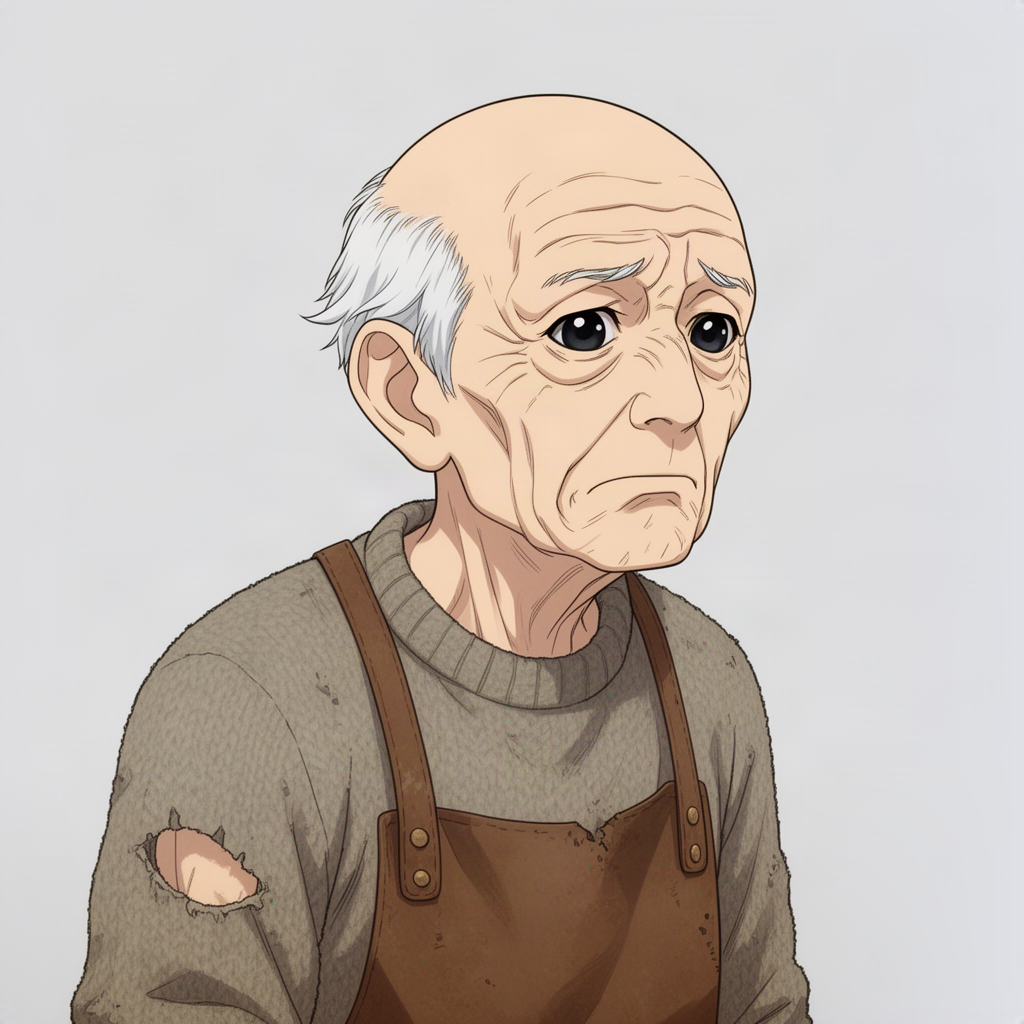
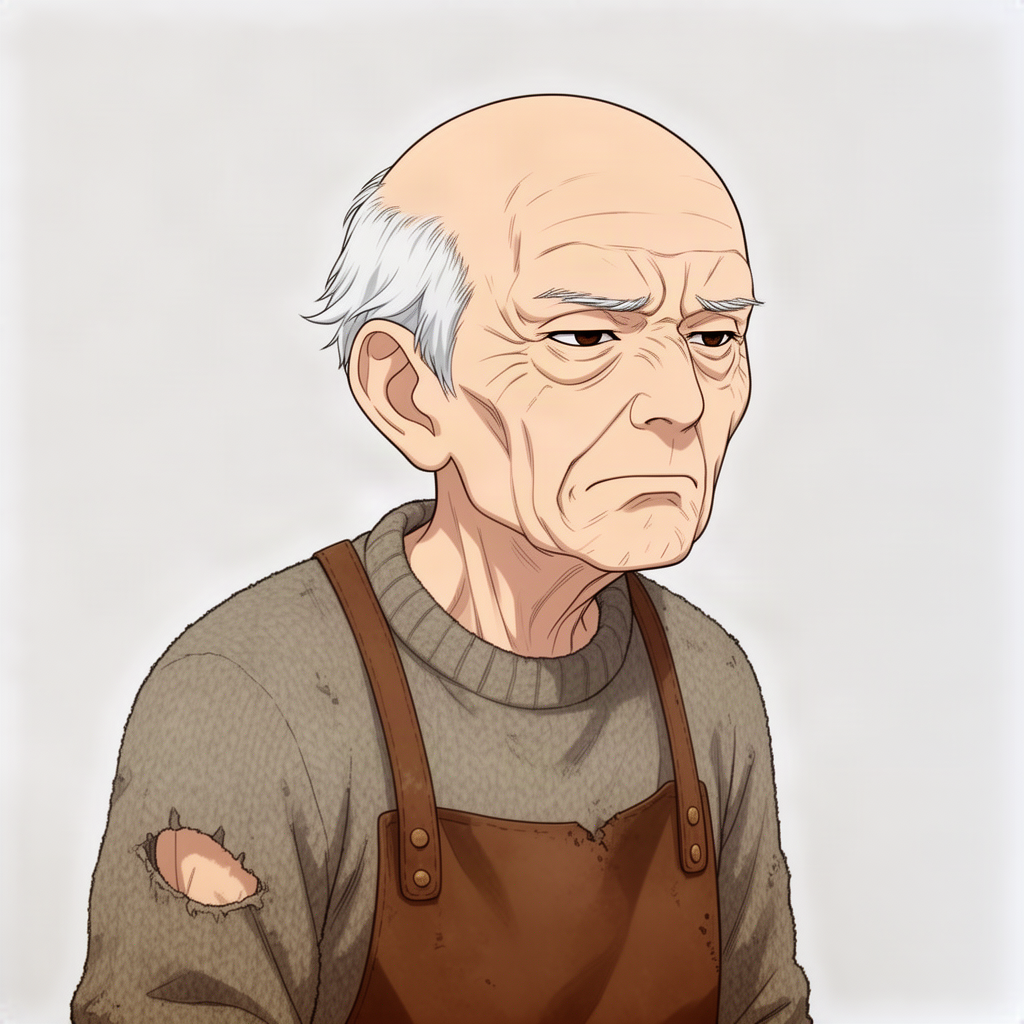
Jef redone: small, narrow, heavy-lidded eyes; less expressive and less comical

diff --git a/art/index.html b/art/index.html
@@ -1,6 +1,6 @@
 <!doctype html><meta charset=utf-8><title>Art index</title>
 <style>body{font:14px system-ui;margin:20px;background:#15171a;color:#e8e6df}h2{margin:28px 0 8px;border-bottom:1px solid #444}.g{display:flex;flex-wrap:wrap;gap:12px}.c{width:220px;background:#1f2226;border-radius:6px;padding:6px}.c img{width:100%;background:#445}.bg img,.cg img{background:#223}small{color:#9a9;display:block}details{margin-top:4px;color:#aaa}summary{cursor:pointer}pre{white-space:pre-wrap;font-size:11px}</style>
-<h1>Art index</h1><p>181 images. Generated 2026-11-22T18:01:58Z. Fixed features: art/canon.json.</p>
+<h1>Art index</h1><p>181 images. Generated 2026-11-22T18:05:56Z. Fixed features: art/canon.json.</p>
 <h2>Other <small>(20)</small></h2><div class=g>
 <div class='c po'><img src='../game/game/images/p_anselm_calm.png' loading=lazy><b>p anselm_calm</b><small>flux-2-t2i $0.012 art/refs/ch04/portraits/anselm_calm.png</small><small>used: ch4×4</small><details><summary>prompt</summary><pre>model: fal-ai/flux-2/edit
 purpose: sheet
@@ -41,27 +41,27 @@ Anime-style character portrait, clean line art, soft cel shading, gentle natural
 purpose: sheet
 refs: art/refs/ch04/portraits/jef_grumbling.png
 
-Anime-style character portrait, clean line art, soft cel shading, gentle natural colours. Head and shoulders, three-quarter view, the face turned toward the viewer&#x27;s right, plain light grey background, no text. The same character as the reference image: same face, same hair, same clothes, same lighting, same skin colour; only the expression changes. Both shoulders visible. The eyes are fully drawn with irises, pupils and highlights. A moderate, restrained expression, no grin, no laughing. The man is VERY OLD, deeply wrinkled, nearly bald. Expression: detached annoyance, looking down and aside as at a machine that has failed him, one eyebrow slightly raised, lips pressed.</pre></details></div>
+Anime-style character portrait, clean line art, soft cel shading, gentle natural colours. Head and shoulders, three-quarter view, the face turned toward the viewer&#x27;s right, plain light grey background, no text. The same character as the reference image: same face, same SMALL NARROW HEAVY-LIDDED dark eyes under LEVEL STRAIGHT heavy brows, same very old deeply wrinkled nearly bald head with a white tuft, same apron and jersey with a hole at the elbow. The eyes stay SMALL and NARROW: NOT large, NOT round, NOT wide open, no raised or sad eyebrows, nothing cartoonish. Restrained, realistic, hard to read. Expression: irritated and detached, a flat look to the side as if annoyed at his own hand.</pre></details></div>
 <div class='c po'><img src='../game/game/images/p_jef_attentive.png' loading=lazy><b>p jef_attentive</b><small>flux-2 $0.024 art/refs/ch04/portraits/jef_attentive.png</small><small>used: ch4×11</small><details><summary>prompt</summary><pre>model: fal-ai/flux-2/edit
 purpose: sheet
-refs: art/refs/ch04/portraits/jef_watching.png
+refs: art/refs/ch04/portraits/jef_grumbling.png
 
-Anime-style character portrait, clean line art, soft cel shading, gentle natural colours. Head and shoulders, three-quarter view, the face clearly turned toward the viewer&#x27;s right, plain light grey background, no text. The same character as the reference image: same face, same hair, same clothes, same lighting; only the expression changes. A VERY OLD, deeply wrinkled, nearly bald man. The eyes are fully drawn, dark brown-black irises with round pupils and white highlights, eyes wide open and bright. Expression: fixed bright attention, intent and sharp, studying something closely, eyebrows slightly raised, mouth closed.</pre></details></div>
-<div class='c po'><img src='../game/game/images/p_jef_grumbling.png' loading=lazy><b>p jef_grumbling</b><small>flux-2-t2i $0.012 art/refs/ch04/portraits/jef_grumbling.png</small><small>used: ch4×9</small><details><summary>prompt</summary><pre>model: fal-ai/flux-2
+Anime-style character portrait, clean line art, soft cel shading, gentle natural colours. Head and shoulders, three-quarter view, the face turned toward the viewer&#x27;s right, plain light grey background, no text. The same character as the reference image: same face, same SMALL NARROW HEAVY-LIDDED dark eyes under LEVEL STRAIGHT heavy brows, same very old deeply wrinkled nearly bald head with a white tuft, same apron and jersey with a hole at the elbow. The eyes stay SMALL and NARROW: NOT large, NOT round, NOT wide open, no raised or sad eyebrows, nothing cartoonish. Restrained, realistic, hard to read. Expression: fixed, sharp attention, eyes narrowed and locked on something, mouth closed, very still.</pre></details></div>
+<div class='c po'><img src='../game/game/images/p_jef_grumbling.png' loading=lazy><b>p jef_grumbling</b><small>flux-2 $0.024 art/refs/ch04/portraits/jef_grumbling.png</small><small>used: ch4×9</small><details><summary>prompt</summary><pre>model: fal-ai/flux-2/edit
 purpose: sheet
-refs: 
+refs: /tmp/jef_old_base.png
 
-Anime-style character portrait, clean line art, soft cel shading, gentle natural colours. Head and shoulders, three-quarter view, the face turned toward the viewer&#x27;s right, plain light grey background, no text. Both shoulders visible. The eyes are fully drawn with irises, pupils and highlights. A restrained expression, no grin. A very small, very old man, deeply wrinkled skin like paper folded many times, only a few wisps of white hair on a nearly bald head, very bright, very dark, sharp eyes, a mouth set in a mild grumble. He wears a worn brown leather apron over a faded wool jersey that has a hole at the elbow. Expression: grumbling, put-upon but not angry.</pre></details></div>
+Anime-style character portrait, clean line art, soft cel shading, gentle natural colours. Head and shoulders, three-quarter view, the face turned toward the viewer&#x27;s right, plain light grey background, no text. The same character as the reference image: the same very old, deeply wrinkled, nearly bald man with a tuft of white hair, the same brown leather apron over the same jersey with a hole at the elbow. ONE CHANGE TO THE FACE: the eyes are SMALL, NARROW and HEAVY-LIDDED, dark brown-black with only a tiny sharp highlight, set under LEVEL, STRAIGHT, heavy brows. NOT large, NOT round, NOT wide open, NO raised or sad eyebrows, NOT shiny, NOT puppy-like, nothing cartoonish. A stern, austere, realistic, hard-to-read old face. Expression: stern and grumbling, mouth set in a flat line, unimpressed.</pre></details></div>
 <div class='c po'><img src='../game/game/images/p_jef_tired.png' loading=lazy><b>p jef_tired</b><small>flux-2 $0.024 art/refs/ch04/portraits/jef_tired.png</small><small>used: ch4×16</small><details><summary>prompt</summary><pre>model: fal-ai/flux-2/edit
 purpose: sheet
 refs: art/refs/ch04/portraits/jef_grumbling.png
 
-Anime-style character portrait, clean line art, soft cel shading, gentle natural colours. Head and shoulders, three-quarter view, the face turned toward the viewer&#x27;s right, plain light grey background, no text. The same character as the reference image: same face, same hair, same clothes, same lighting, same skin colour; only the expression changes. Both shoulders visible. The eyes are fully drawn with irises, pupils and highlights. A moderate, restrained expression, no grin, no laughing. The man is VERY OLD, deeply wrinkled, nearly bald. Expression: very tired, eyelids heavy, but the dark eyes still bright, a faint weary calm; one hand rests flat on his chest, rubbing it absently, the hand clearly drawn with five fingers.</pre></details></div>
+Anime-style character portrait, clean line art, soft cel shading, gentle natural colours. Head and shoulders, three-quarter view, the face turned toward the viewer&#x27;s right, plain light grey background, no text. The same character as the reference image: same face, same SMALL NARROW HEAVY-LIDDED dark eyes under LEVEL STRAIGHT heavy brows, same very old deeply wrinkled nearly bald head with a white tuft, same apron and jersey with a hole at the elbow. The eyes stay SMALL and NARROW: NOT large, NOT round, NOT wide open, no raised or sad eyebrows, nothing cartoonish. Restrained, realistic, hard to read. Expression: tired, eyes lowered and heavy, one hand rubbing his chest, drained.</pre></details></div>
 <div class='c po'><img src='../game/game/images/p_jef_watching.png' loading=lazy><b>p jef_watching</b><small>flux-2 $0.024 art/refs/ch04/portraits/jef_watching.png</small><small>used: ch4×7</small><details><summary>prompt</summary><pre>model: fal-ai/flux-2/edit
 purpose: sheet
 refs: art/refs/ch04/portraits/jef_grumbling.png
 
-Anime-style character portrait, clean line art, soft cel shading, gentle natural colours. Head and shoulders, three-quarter view, the face turned toward the viewer&#x27;s right, plain light grey background, no text. The same character as the reference image: same face, same hair, same clothes, same lighting, same skin colour; only the expression changes. Both shoulders visible. The eyes are fully drawn with irises, pupils and highlights. A moderate, restrained expression, no grin, no laughing. The man is VERY OLD, deeply wrinkled, nearly bald. Expression: hard to read, a long quiet watchful look, neutral mouth, eyes steady, unreadable.</pre></details></div>
+Anime-style character portrait, clean line art, soft cel shading, gentle natural colours. Head and shoulders, three-quarter view, the face turned toward the viewer&#x27;s right, plain light grey background, no text. The same character as the reference image: same face, same SMALL NARROW HEAVY-LIDDED dark eyes under LEVEL STRAIGHT heavy brows, same very old deeply wrinkled nearly bald head with a white tuft, same apron and jersey with a hole at the elbow. The eyes stay SMALL and NARROW: NOT large, NOT round, NOT wide open, no raised or sad eyebrows, nothing cartoonish. Restrained, realistic, hard to read. Expression: watching someone steadily, unreadable, eyes narrowed and level, mouth closed.</pre></details></div>
 <div class='c po'><img src='../game/game/images/p_maelis_composed.png' loading=lazy><b>p maelis_composed</b><small>flux-2 $0.024 art/refs/ch04/portraits/maelis_composed.png</small><small>used: ch4×10</small><details><summary>prompt</summary><pre>model: fal-ai/flux-2/edit
 purpose: sheet
 refs: art/refs/ch04/portraits/maelis_examining.png
@@ -869,7 +869,7 @@ Anime-style wide illustration, clean line art, soft cel shading, gentle natural 
 <p><b>The woman from Fallow</b>: woman of about thirty from Fallow (unnamed), tired flat capable face, long-limbed and dark-eyed, dark hair tied back plainly, weathered light skin, worn grey-green sea-silk tunic; towed her father eleven days on a sled of kelp-floats</p>
 <p><b>The old man from Fallow</b>: very old, frail, deeply wrinkled, hollow cheeks, thin white hair, dark eyes, worn grey-green cloth wrapped round the shoulders; breathes as though each breath has to be lifted (the woman&#x27;s father)</p>
 <p><b>The diver officer</b>: woman of about forty, cropped dark hair, hard-eyed; Halcyon armoured diving suit in grey with a round-glass metal helmet (face visible through the glass), a coloured stripe over the helmet marks her rank, a lamp on the helmet&#x27;s brow, a blue shield-shaped crest on the shoulder; carries a harpoon gun (c03.s03.p017.2)</p>
-<p><b>Jef</b>: a very small, VERY OLD man (about nine hundred years), deeply wrinkled skin like folded paper, nearly bald with a few wisps of white hair at the sides, very bright very dark eyes; worn brown leather apron over a faded wool jersey with a hole at the elbow (choice: pale skin, tuft of white hair over the ears); no gift, a mechanic; carries a small worn tool</p>
+<p><b>Jef</b>: a very small, VERY OLD man (about nine hundred years), deeply wrinkled skin like folded paper, nearly bald with a few wisps of white hair at the sides, dark eyes (the text&#x27;s &#x27;very bright, very dark&#x27; is shown by a tiny sharp highlight, NOT by big shiny eyes); worn brown leather apron over a faded wool jersey with a hole at the elbow (choice: pale skin, tuft of white hair over the ears); no gift, a mechanic; carries a small worn tool</p>
 <p><b>Maelis</b>: Jef&#x27;s wife of fifty-one years, in her seventies, tall and straight, grey hair pinned in a low bun, lined composed face, brown eyes; patched dark coat with full pockets (choice: coat colour dark charcoal, patches brown); a healer born in the Quiet, the rays&#x27; mouth</p>
 <p><b>Anselm Rook</b>: broad-shouldered white-haired man of about seventy-two, courteous heavy face, grey-blue eyes, thin pale scars from the temples down the sides of the neck (the Thread); dark close-fitting surface hard suit with a clear glass helmet (portraits show the suit&#x27;s high dark collar; p_anselm_helmed shows the helmet)</p>
 <p><b>Elder Vey</b>: tall, exact woman of seventy, light skin, deep lines at forehead and eyes, silver hair bound close to her head, perfectly upright posture (never seen to slump), cold composed face; formal high-collared deep sea-green robe with a pale shell-white band at the collar (colour is a choice)</p>
